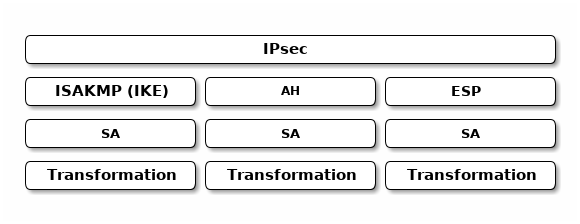
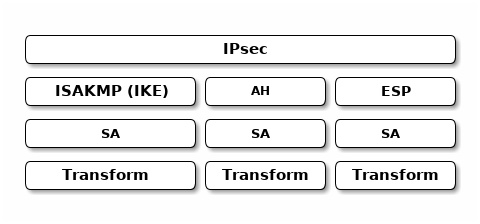
Transformation -> Transform

diff --git a/source/ikev2/ueberblick.rst b/source/ikev2/ueberblick.rst
@@ -38,10 +38,15 @@ einer Security Association Database (SAD) abzulegen. Dabei gibt es sowohl
 SA für die IKE-Sitzung, in der die Parameter ausgehandelt werden als
 auch für die durch IPsec geschützten Daten.
 
-Eine Transformation ist ein Datensatz in der SAD, der durch den
-*Security Parameters Index* (SPI) im Datagramm identifiziert wird und die
-nötigen Informationen enthält, um das Datagramm zu entschlüsseln
-beziehungsweise seine Integrität zu prüfen.
+Eine SA besteht aus einer oder mehreren Proposals die jeweils ein
+Protokoll umfassen. Jedes dieser Protokolle enthält eine oder
+mehrere Transforms, die ihrerseits einen kryptographischen Algorithmus
+beschreiben. Ein Transform kann Attribute enthalten falls das notwendig
+ist, um den kryptographischen Algorithmus komplett zu beschreiben.
+
+In einem Datagramm wird die SA, an die der Empfänger das Datagramm
+binden soll und in der er die nötigen Angaben zum Entschlüsseln findet,
+durch einen *Security Parameter Index* (SPI) identifiziert.
 
 Die Protokolle AH und ESP enthalten nur den für den Empfänger nötigen SPI
 in ihrem Header. Im Datagramm-Header von IKE gibt es zwei SPI bei denen
